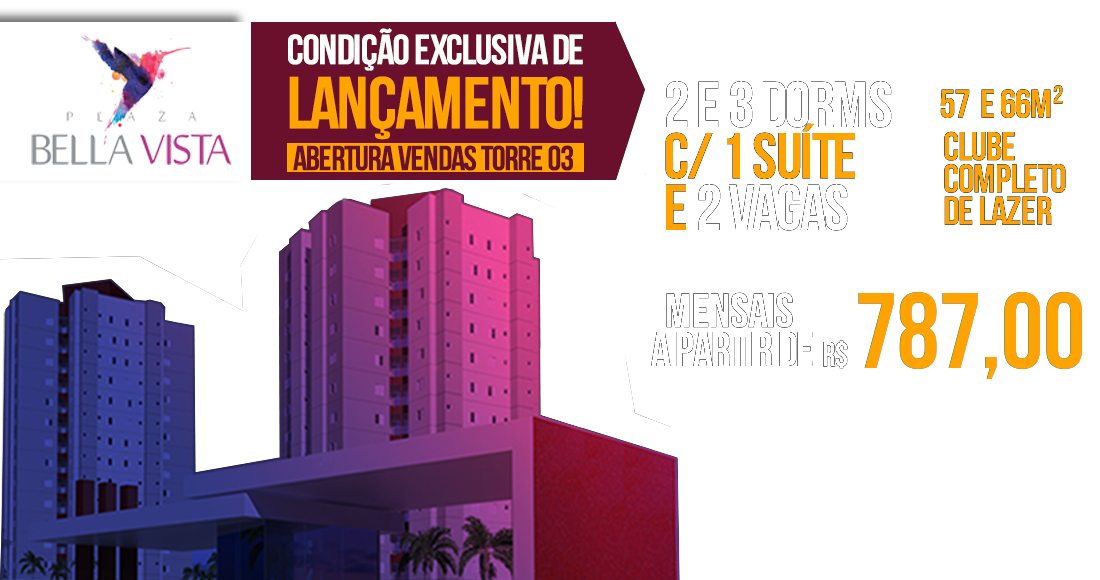
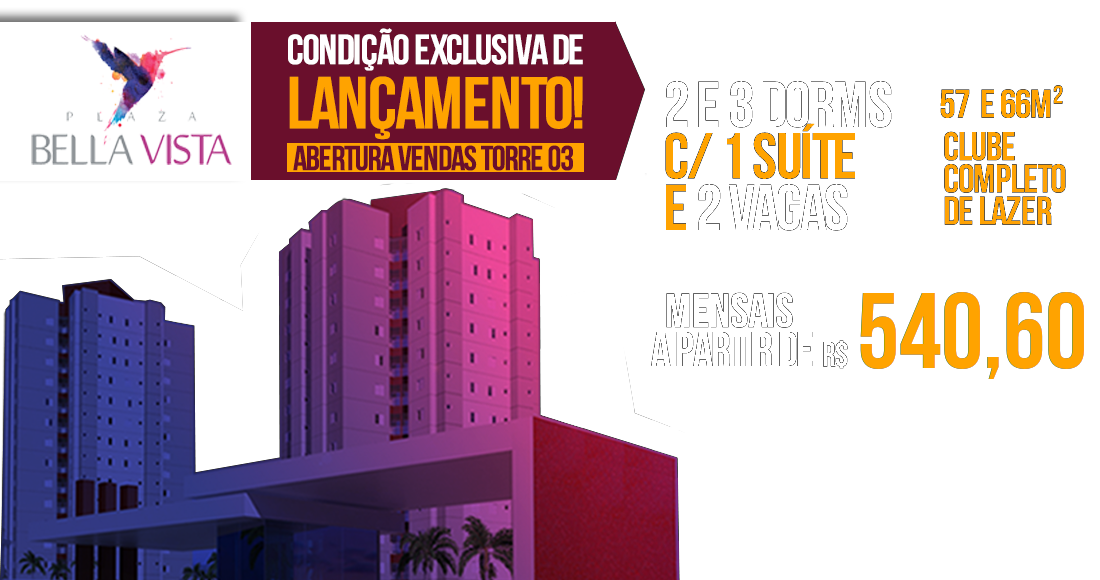
update meio de marco

Changed region(s): [[0.7727, 0.4966, 0.9891, 0.6517]]

diff --git a/index.html b/index.html
@@ -159,7 +159,7 @@
 
     <div class="w3-card-4 w3-center w3-padding w3-margin w3-red">
       <h3>Apartamentos a partir de R$255.000,00</h3>
-      <h4>Parcelas a partir de <span class="w3-text-amber">R$787,00</span></h4>
+      <h4>Parcelas a partir de <span class="w3-text-amber">R$540,60</span></h4>
     </div>
 
     <div class="w3-white w3-center w3-margin-top w3-margin-bottom">
